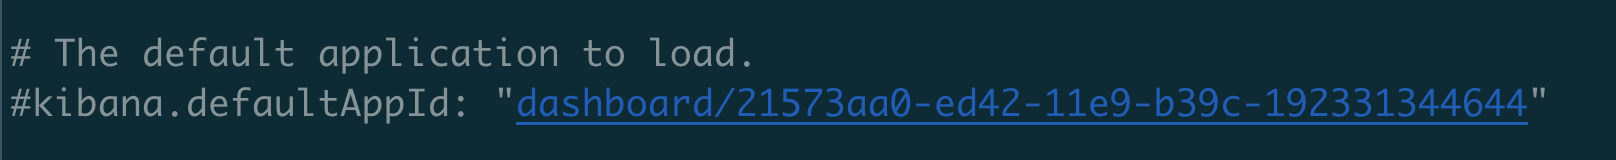
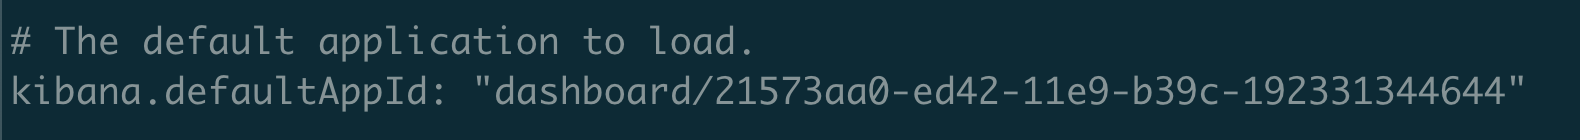
Fix doc

Changed region(s): [[0.0, 0.5429, 0.9614, 0.8], [0.0, 0.1714, 0.4652, 0.4571]]

diff --git a/README.md b/README.md
@@ -48,7 +48,7 @@ This is my personal stash of Chinese Historical Source
 ![Dashboard Save](./img/dashboard_save.png "Dashboard Save")
 20. 找到浏览器地址栏，把/和?直接的Dashboard ID存下来（比如开个记事本什么的）。
 ![Dashboard ID](./img/dashboard_id.png "Dashboard ID")
-21. 打开这个文件：/usr/local/etc/kibana/kibana.yml，找到#kibana.defaultAppId: "home"这一行，把home改成你之前存的Dashboard ID，比如dashboard/21573aa0-ed42-11e9-b39c-192331344644
+21. 打开这个文件：/usr/local/etc/kibana/kibana.yml，找到#kibana.defaultAppId: "home"这一行，把home改成你之前存的Dashboard ID，比如dashboard/21573aa0-ed42-11e9-b39c-192331344644。然后把这行前面的#删掉。
 ![Change Homepage](./img/change_homepage.png "Change Homepage")
 22. 重启Kibana：`brew services restart kibana`
 
